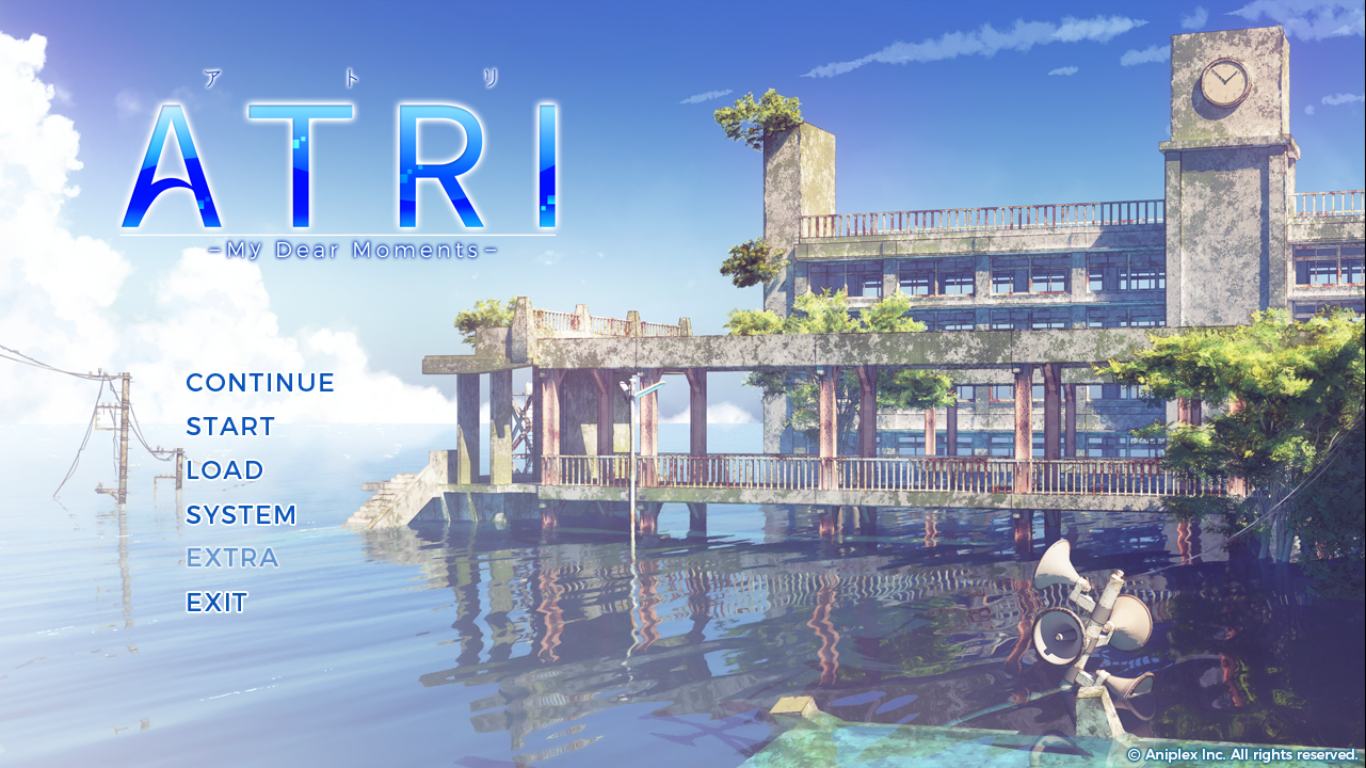
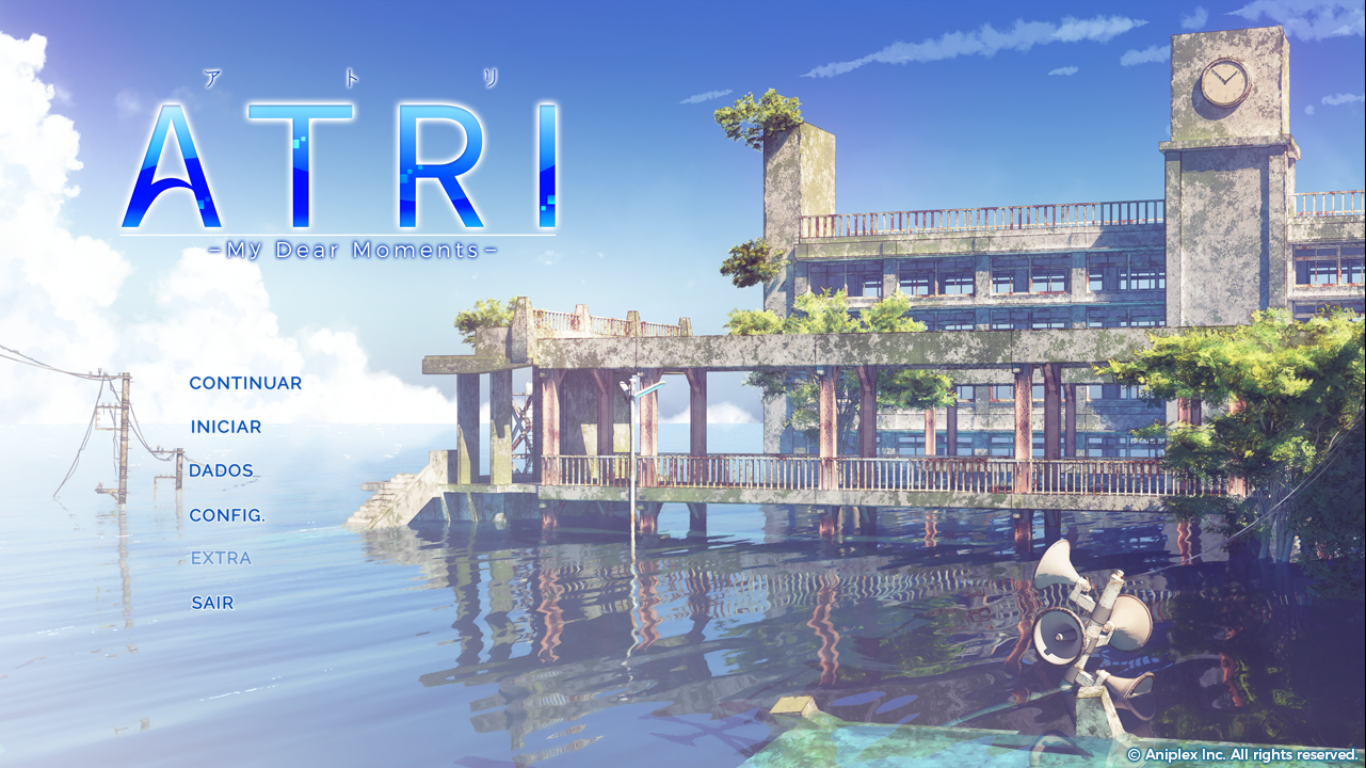
Beta 1.4 Reboot
- Por motivos pessoais, resolvi remover o patch demo de Atri. Ele será disponibilizado quando a tradução estiver mais avançada.
- Atualizações na página de Atri

Changed region(s): [[0.123, 0.6562, 0.2152, 0.8125], [0.123, 0.4688, 0.246, 0.5625], [0.123, 0.5938, 0.2152, 0.625]]

diff --git a/atri.html b/atri.html
@@ -151,14 +151,14 @@
                   <!-- Progresso da Tradução -->
                   <div class="progress-area">
                     <p class="title-s">Progresso</p>
-                    <span>Menus</span> <span class="pull-right">10%</span>
+                    <span>Menus</span> <span class="pull-right">12%</span>
                     <div class="progress">
-                      <div class="progress-bar" role="progressbar" style="width: 10%;" aria-valuenow="10"
+                      <div class="progress-bar" role="progressbar" style="width: 12%;" aria-valuenow="12"
                         aria-valuemin="0" aria-valuemax="100"></div>
                     </div>
-                    <span>Imagens e Vídeos</span> <span class="pull-right">0%</span>
+                    <span>Imagens e Vídeos</span> <span class="pull-right">1%</span>
                     <div class="progress">
-                      <div class="progress-bar" role="progressbar" style="width: 0%" aria-valuenow="0" aria-valuemin="0"
+                      <div class="progress-bar" role="progressbar" style="width: 1%" aria-valuenow="1" aria-valuemin="0"
                         aria-valuemax="100"></div>
                     </div>
                     <span>História</span> <span class="pull-right">5%</span>
@@ -166,9 +166,9 @@
                       <div class="progress-bar" role="progressbar" style="width: 5%" aria-valuenow="5" aria-valuemin="0"
                         aria-valuemax="100"></div>
                     </div>
-                    <span>Revisão</span> <span class="pull-right">3%</span>
+                    <span>Revisão</span> <span class="pull-right">0%</span>
                     <div class="progress">
-                      <div class="progress-bar" role="progressbar" style="width: 3%" aria-valuenow="3" aria-valuemin="0"
+                      <div class="progress-bar" role="progressbar" style="width: 0%" aria-valuenow="0" aria-valuemin="0"
                         aria-valuemax="100"></div>
                     </div>
                   </div>
@@ -201,8 +201,7 @@
                   </div>
 
                   <!-- Botão de Download -->
-                  <a href="aviso-atri.html" class="btn-download">Baixar Patch [DEMO] <i
-                    class="fa-solid fa-cloud-arrow-down"></i></a>
+                  <a href="" class="btn-download">Em breve...</a>
               </div>
               </div>
 

diff --git a/changelog.html b/changelog.html
@@ -132,10 +132,9 @@
             </div>
             <div class="changes-item">
               <h4>Beta 1.4<i class="fa-solid fa-code"></i></h4>
-              <h5>01/03/2023</h5>
+              <h5>03/03/2023</h5>
               <p>Mudanças:</p>
               <ul>
-                <li>A versão <strong>Demo</strong> do patch de ATRI foi liberada!</li>
                 <li>Atualizações e correções na página de ATRI</li>
                 <li>Pequenos erros corrigidos</li>
               </ul>
